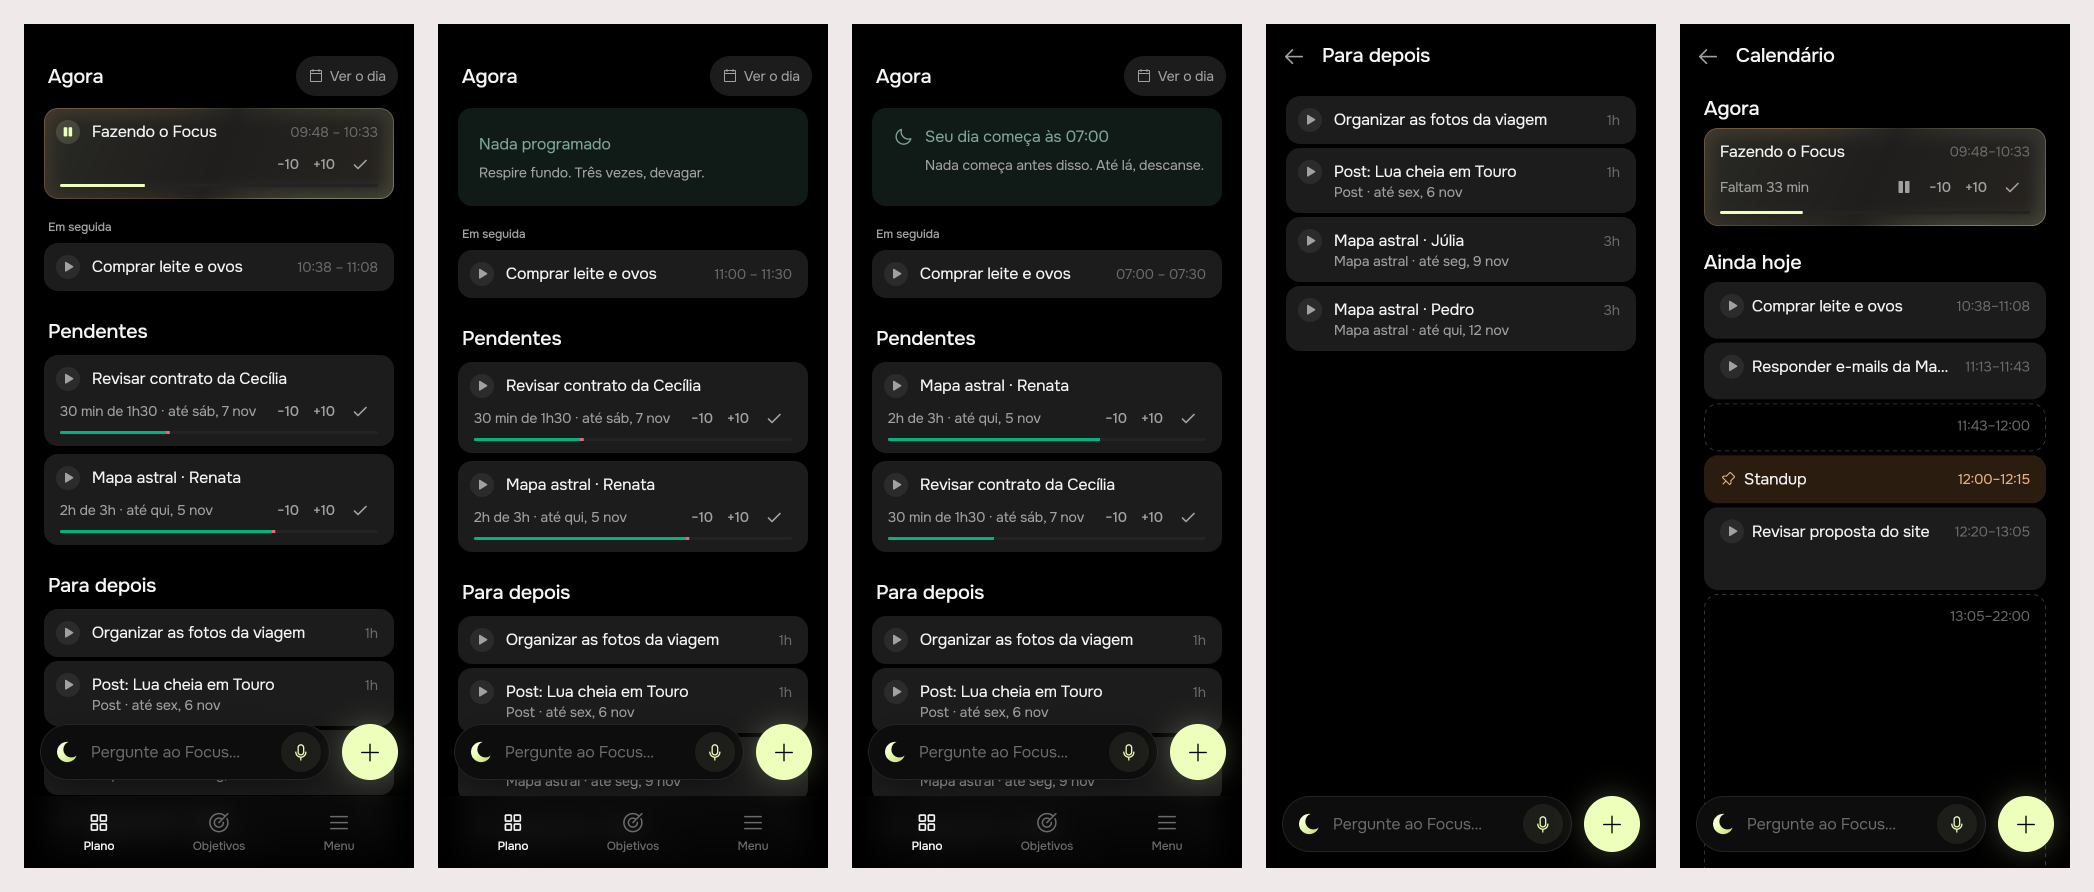
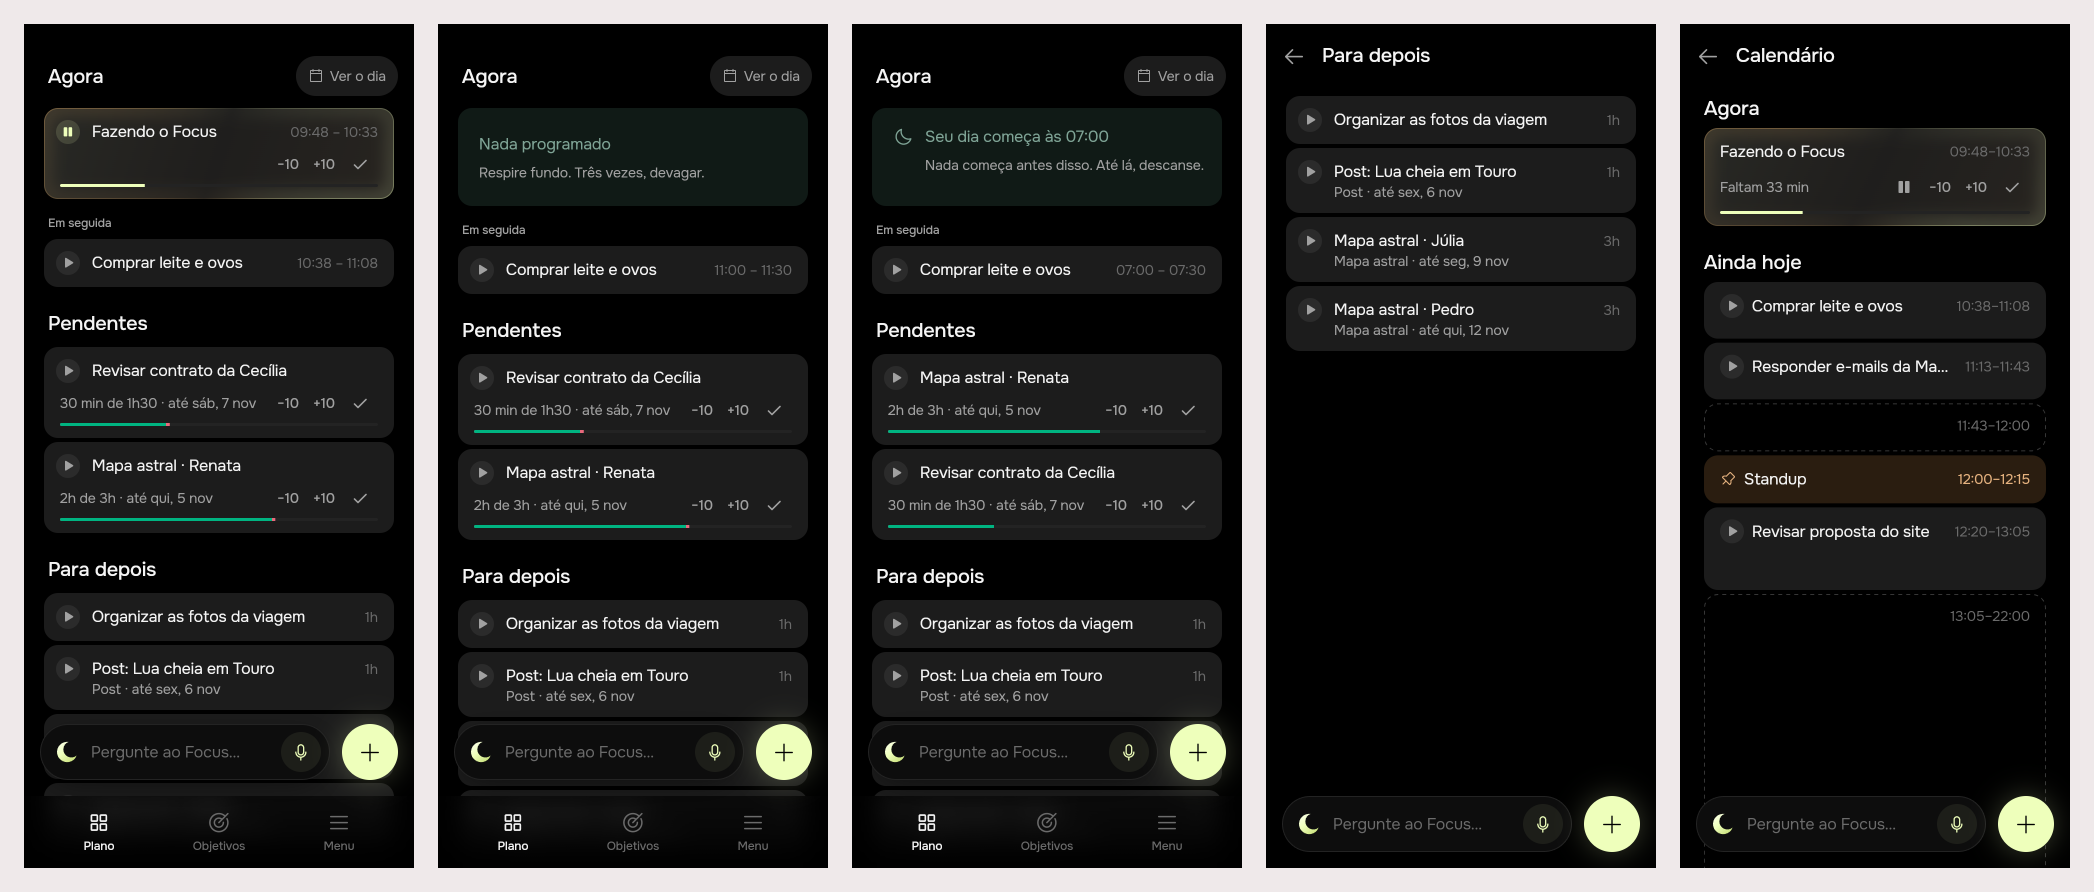
create(#79): fix · Improve UX and UI: Part 1

diff --git a/app/lib/plan/view/home_page.dart b/app/lib/plan/view/home_page.dart
@@ -223,7 +223,6 @@ class _HomePageState extends State<HomePage> {
                         _Pad(child: _Quiet(text: l10n.homeLaterEmpty)),
                       for (final item in later)
                         _Pad(
-                          gap: kQueueGap,
                           child: LaterCard(
                             key: ValueKey(item.id),
                             item: item,
@@ -310,23 +309,21 @@ class _NextCard extends StatelessWidget {
   }
 }
 
-/// A card's room in the column: the page's margin, and a gap under it.
+/// A card's room in the column: the page's margin, and under it the gap
+/// every card of Plano keeps ([kQueueGap]).
 class _Pad extends StatelessWidget {
-  const _Pad({required this.child, this.gap = AppSpacing.s2});
+  const _Pad({required this.child});
 
   final Widget child;
-
-  /// The room under it.
-  final double gap;
 
   @override
   Widget build(BuildContext context) {
     return Padding(
-      padding: EdgeInsets.fromLTRB(
+      padding: const EdgeInsets.fromLTRB(
         AppSpacing.s5,
         0,
         AppSpacing.s5,
-        gap,
+        kQueueGap,
       ),
       child: child,
     );

diff --git a/app/lib/plan/view/plan_items.dart b/app/lib/plan/view/plan_items.dart
@@ -7,9 +7,9 @@ import 'package:go_router/go_router.dart';
 import 'package:l10n/l10n.dart';
 import 'package:timeline/timeline.dart';
 
-/// The room between two tasks of a queue (Para depois, on Plano and on
-/// its own page): closer than the sections' cards, so the queue reads as
-/// one list.
+/// The room between two cards of Plano (Agora, Em seguida, Pendentes and
+/// Para depois) and of Para depois's own page: one spacing everywhere, so
+/// each section reads as one list.
 const double kQueueGap = AppSpacing.s1;
 
 /// {@template plan_items}

diff --git a/product/delivery/2026-11-03-ux-part-1/README.md b/product/delivery/2026-11-03-ux-part-1/README.md
@@ -20,6 +20,11 @@ The design was reviewed on the issue, and the person replied:
 
 > We should also have play buttons on calendar view
 
+The build was reviewed on the issue. Asked whether Pendentes should be
+tighter too (only Para depois was at 4 px), the person replied:
+
+> yes, they should all follow the same spacing
+
 ## 2. The design
 
 ![The board](img/mockup-board.png)
@@ -50,7 +55,7 @@ doesn't compete with the title.
 | L | Play on the calendar | Every task with an hour that has not begun draws the same 24 px `TaskPlayButton` before its title (`EventTile.onPlay`). A tap is a drop on Agora (`EventMoved(start: true)`), so with something running it asks first (`GuardSheet`). A delivery's block on the calendar draws it in place of the folders and plays its next task (`DeliveryTile.onPlay`). Tapping it never opens the card nor starts a drag (it sits under the card's `actionsKey`). |
 | M | Events on the calendar | No play: an event begins at its hour. The pin stays; no empty slot is kept, since calendar cards are not a column of titles. |
 | N | Agora on the calendar | Unchanged: the running card already has pause, −10, +10 and ✓. |
-| F, J | Queue spacing | 4 px between Para depois's cards (was 8), on Plano and on its page (`kQueueGap`). Agora, Em seguida and Pendentes keep 8. |
+| F, J | Queue spacing | 4 px between Para depois's cards (was 8), on Plano and on its page (`kQueueGap`). After the build's review, every card on Plano (Agora, Em seguida, Pendentes too) keeps the same 4 px. |
 
 What Agora draws when something is in it was already the calendar's:
 `NowTaskCard` hands a fixed block, a task waiting to be begun and one in
@@ -59,7 +64,8 @@ overtime to `EventTile`. The difference was only the empty state.
 ### Decided unattended
 
 - **"The queue" is Para depois** (the list on Plano and `LaterPage`), not
-  Pendentes, whose cards carry a bar and controls and stay at 8 px.
+  Pendentes. Superseded by the build's review: every section follows the
+  same spacing.
 - **Play for a fixed block in Em seguida: none.** An event starts at its
   hour by itself (AGENTS.md, "Events never wait"); the slot is kept so the
   title aligns.
@@ -91,6 +97,8 @@ The real build, Lunna then Focus, five scenes each: a task running (with
 Em seguida's `start – end` and play), the break on an empty Agora, before
 the working day (`DayOverTile`), Para depois whole (4 px apart), and the
 calendar with play on each task not begun and none on the Standup event.
+Re-shot after the build's review: every card on Plano, Agora's, Em
+seguida's and Pendentes' included, is now 4 px from the next.
 The 24 px button reads on both: `fillStrong` with `ink2` waiting, and on
 Agora's glow the pause on `accentSoft` (lime on Focus's dark, rose on
 Lunna's).
@@ -111,7 +119,7 @@ depois, Em seguida, the calendar), so with something running it asks first
 | Lista's break and Calendário's empty Agora draw `AgoraIdleTile`; `_plays` wires play on the calendar | `packages/timeline/lib/src/view/timeline_list.dart` |
 | `EventTile.onPlay`, `DeliveryTile.onPlay` | `packages/timeline/lib/src/widgets/event_tile.dart`, `delivery_tile.dart` |
 | `kSuggestionOnPlan = false`, `_NowCard`, `_NextCard`, `_Pad(gap:)` | `app/lib/plan/view/home_page.dart` |
-| `kQueueGap` (4 px) on Plano and `LaterPage` | `app/lib/plan/view/plan_items.dart`, `later_page.dart` |
+| `kQueueGap` (4 px) under every card on Plano (`_Pad` has no other gap) and on `LaterPage` | `app/lib/plan/view/plan_items.dart`, `home_page.dart`, `later_page.dart` |
 | `feedBreak` ("Nada em andamento") removed, l10n regenerated | `packages/l10n` |
 
 **Tests** (all passing):
@@ -126,10 +134,14 @@ depois, Em seguida, the calendar), so with something running it asks first
   the working day; Em seguida's `10:40 – 11:25` and its play; and the
   empty day now also checks that no `SuggestionCard` is drawn and the
   agent is never asked). Run under both brands.
+- After the review's spacing change: `.tool/check` green (`app-analyze`,
+  the step it chose for the change), and `test/plan` passed by hand under
+  Focus and Lunna (6 each).
 - `.tool/check`: every step passed (`app-analyze`, the tests of every
   package under Focus and Lunna). No flaky test seen.
 
-**Where the build differs from the mockup**: nothing a person sees. The
+**Where the build differs from the mockup**: one spacing on Plano, as
+the review asked (the mockup kept 8 px outside Para depois). Otherwise, the
 one change behind it is Calendário's empty Agora, which now draws through
 `AgoraIdleTile` like Plano and Lista instead of its own copy of the same
 two widgets.

diff --git a/product/spec/home.md b/product/spec/home.md
@@ -33,7 +33,7 @@ No greeting, date or clock. From the top:
 | Agora | heading with today's mark (`TodayTag`: "Dia 2 · dia leve", or the day's own tag) and *Ver o dia*; the running task as `NowTaskCard`: titled by its delivery, the task under it, pause, −10 +10 ✓, the 3 px bar. A fixed block, a task waiting to be begun and one in overtime keep `EventTile` | the card in section `agora` | what the calendar's Agora says (`AgoraIdleTile`): the break with its line, a tap writing a task from now; outside the working day `DayOverTile`, with the Menu's hours |
 | Em seguida | the first card in section `dia`, `start – end`, play for a task; an event has none but keeps its room (`keepPlaySlot`) | `TimelineState.cards` | not drawn |
 | Pendentes | every delivery begun and not delivered (`PendingCard`): its next task under the name, "1h30 de 3h · até ter, 3 nov" (danger ink when urgent), −10 +10 ✓, the pace bar at 3 px | `progressGroups(...).started`, minus the one running on Agora | not drawn |
-| Para depois | the first four (`kLaterOnHome`) of everything not begun (`LaterCard`), then *Abrir a lista · mais N*, 4 px apart (`kQueueGap`; the other sections keep 8) | `PlanItems.later`: the loose backlog in its order, then the deliveries not begun in the queue's | "Nada esperando." |
+| Para depois | the first four (`kLaterOnHome`) of everything not begun (`LaterCard`), then *Abrir a lista · mais N*, 4 px apart (`kQueueGap`, as every card on Plano) | `PlanItems.later`: the loose backlog in its order, then the deliveries not begun in the queue's | "Nada esperando." |
 
 - **Play** is a drop on Agora: a loose task posts `POST /tasks/:id/move
   { index: 0, start: true }`; a delivery posts `POST /tasks/of/:id/play`,

diff --git a/AGENTS.md b/AGENTS.md
@@ -520,7 +520,7 @@ Three tabs: **Plano** (`HomePage`, the home: the agent's offer, off
 for now (`kSuggestionOnPlan`, #79); Agora with today's mark and *Ver o dia*, the running task and the one
 after it; **Pendentes**, the deliveries begun, drawn like Agora with ±10,
 ✓ and their bar; **Para depois**, the first four of everything not begun
-and *Abrir a lista*, its cards 4 px apart), **Objetivos** (`GoalsPage`) and **Menu**, which
+and *Abrir a lista*; every card 4 px apart, `kQueueGap`), **Objetivos** (`GoalsPage`) and **Menu**, which
 opens Rotina, **Feitas**, **Produtos** (the catalogue), sets when the day
 starts and ends, and signs out. *Ver o dia* pushes `DayPage` (the
 calendar); *Abrir a lista* pushes `LaterPage`. The app opens on Plano;
